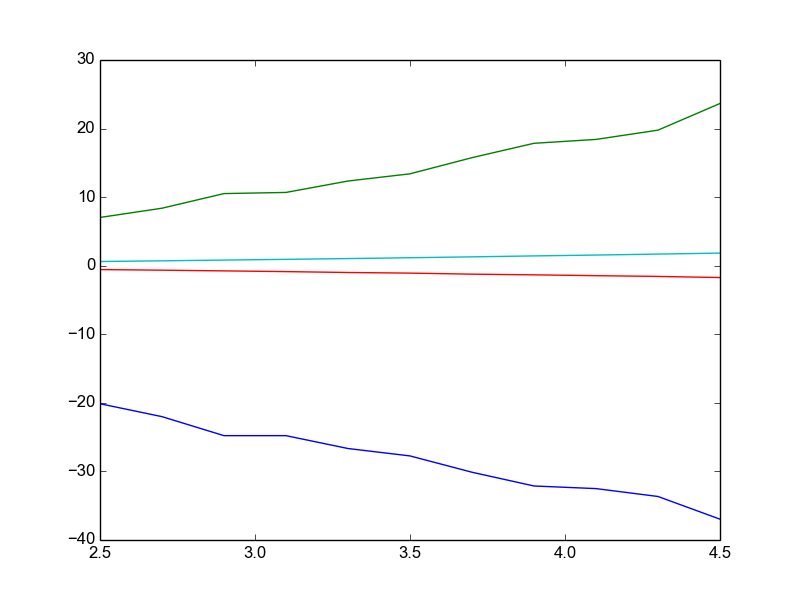
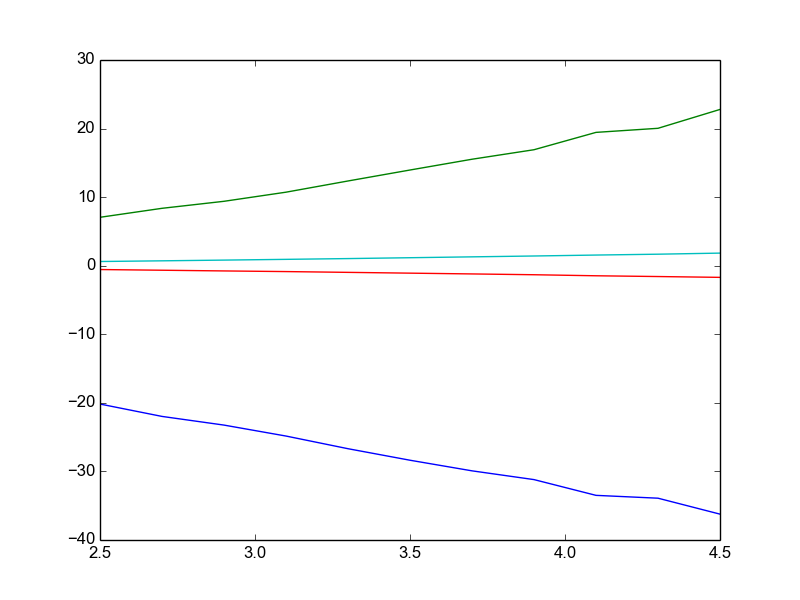
Running in parallel with the new standard. Considerably easier.

diff --git a/Project2/src/cpp/plot/testplot/main.cpp b/Project2/src/cpp/plot/testplot/main.cpp
@@ -2,6 +2,7 @@
 #include "../../vmcsolver/util.h"
 #include <chrono>
 #include <iostream>
+#include <omp.h>
 
 using namespace std;
 
@@ -19,6 +20,7 @@ int main(int argc, const char *argv[])
     int nParticles = 4;
     double nCycles = 1e5;
     int binSize = nCycles/10;
+    int idum = 1;
 
     string adress = "../../../../res/plot/testplot/";
 
@@ -33,7 +35,7 @@ int main(int argc, const char *argv[])
     wrapper.h = 0.001;
     wrapper.hInv = 1000;
     wrapper.h2Inv = 1e+06;
-    wrapper.idum = 1;
+    wrapper.idum = idum;
     wrapper.useEfficientSlater(true);
     wrapper.useLocalEnergySlater();
 
@@ -51,25 +53,36 @@ int main(int argc, const char *argv[])
     double* EPot = vEPot.getArrayPointer();
 
 
-    // Run simulation.
+    int threads = 4;
+    // Set the max number of threads that can be run.
+    omp_set_num_threads(threads);
+
     auto start = chrono::high_resolution_clock::now();
-    for (int cycle = 0; cycle < nCycles; cycle++) 
+    #pragma omp parallel 
     {
-        for (int i = 0; i < nParticles; i++) 
+        VMCSolver solver = wrapper.getInitializedSolver();
+        solver.setSeed(idum + omp_get_thread_num());
+
+        // Run simulation.
+        for (int cycle = 0; cycle < nCycles; cycle++) 
         {
-            solver.runSingleStepSlater(i,cycle);
-            energyArray[cycle] += solver.deltaE;
-            DD[cycle] += solver.DD;
-            CC[cycle] += solver.CC;
-            DC[cycle] += solver.DC;
-            EPot[cycle] += solver.potentialEnergy;
+            for (int i = 0; i < nParticles; i++) 
+            {
+                solver.runSingleStepSlater(i,cycle);
+                energyArray[cycle] += solver.deltaE;
+                DD[cycle] += solver.DD;
+                CC[cycle] += solver.CC;
+                DC[cycle] += solver.DC;
+                EPot[cycle] += solver.potentialEnergy;
+            }
         }
     }
-    vDD /= nParticles;
-    vCC /= nParticles;
-    vDC /= nParticles;
-    vEnergyArray /= nParticles;
-    vEPot /= nParticles;
+    vDD /= (nParticles*threads);
+    vCC /= (nParticles*threads);
+    vDC /= (nParticles*threads);
+    vEnergyArray /= (nParticles*threads);
+    vEPot /= (nParticles*threads);
+
     auto end = chrono::high_resolution_clock::now();
     chrono::duration<double> diff = end-start;
     cout << "Time = " << microfortnights(diff).count() << " micro fortnights." << endl;
